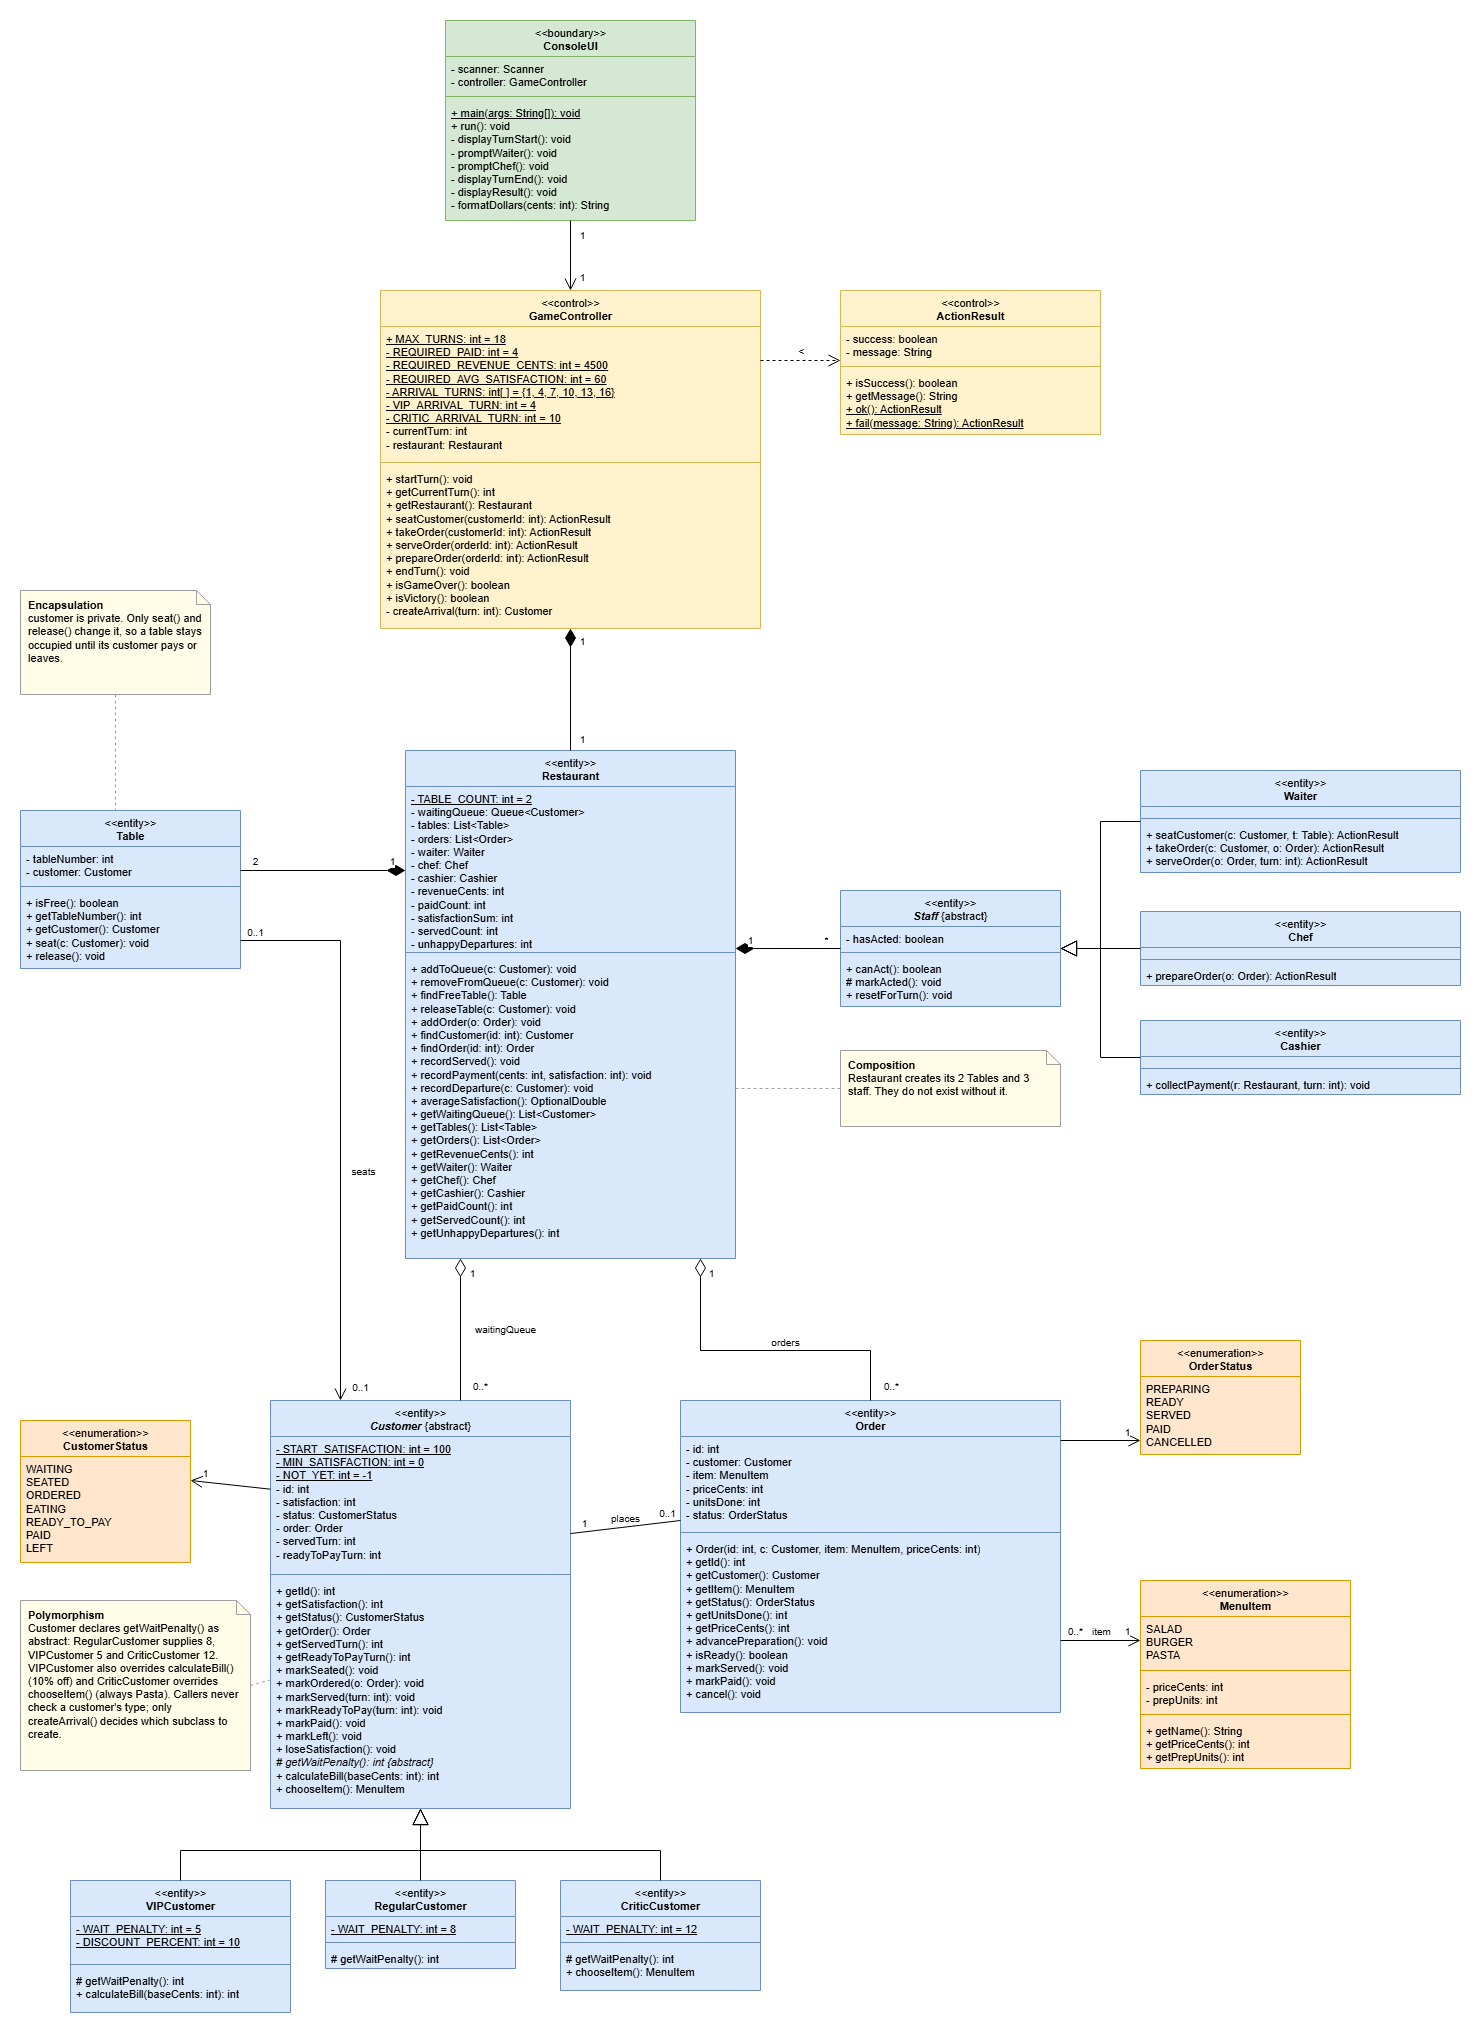
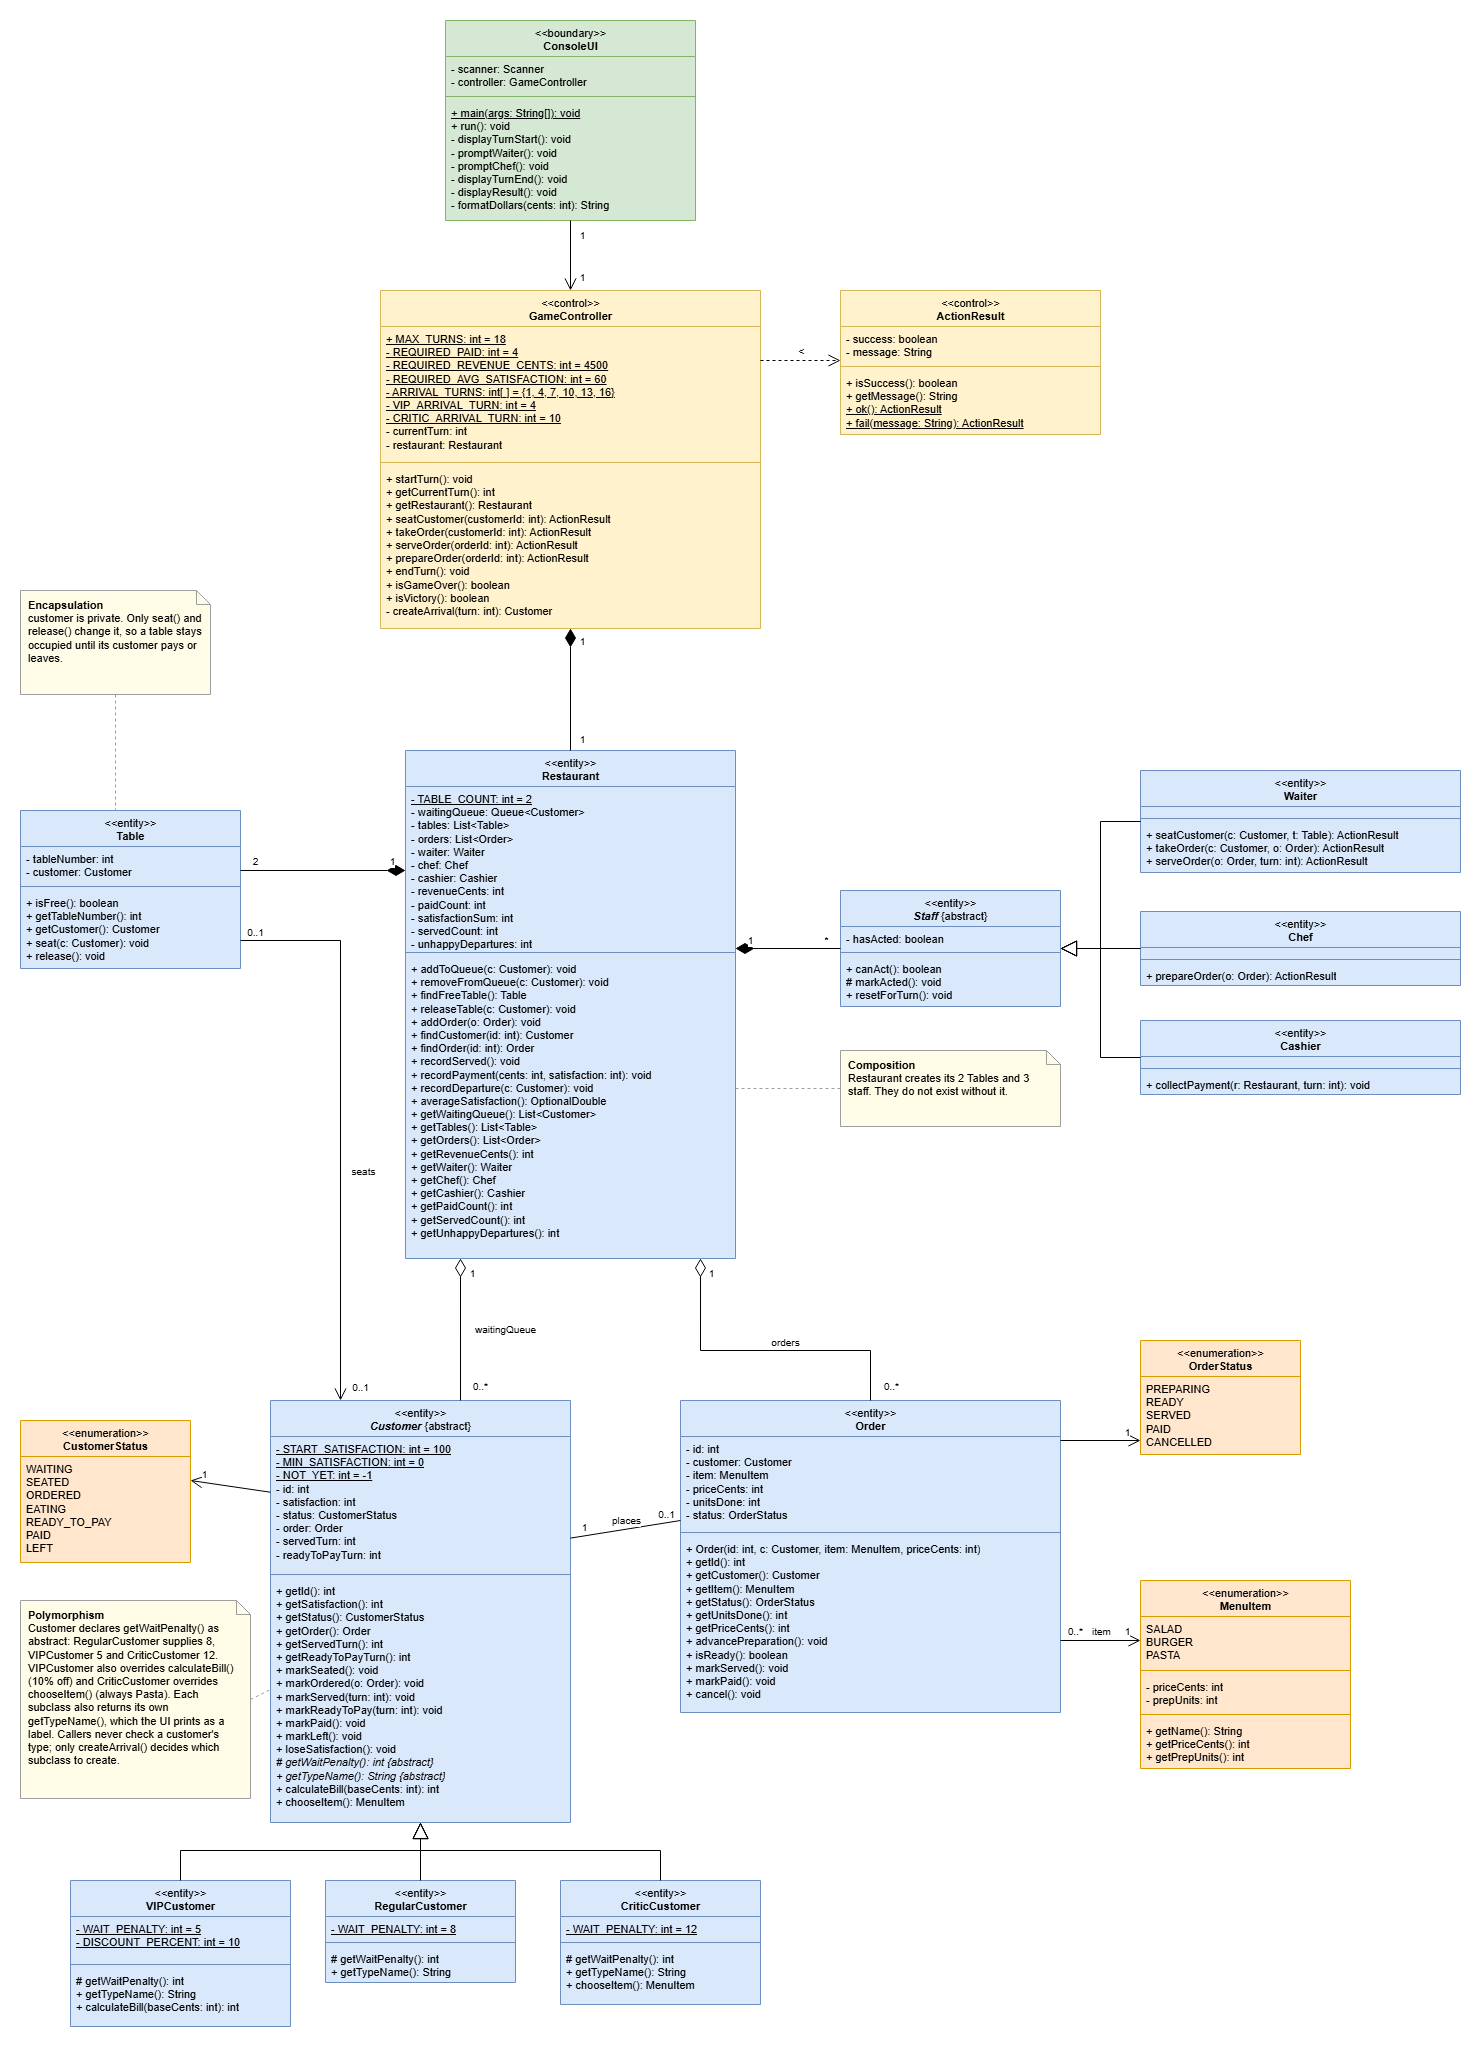
Label each customer with its type in the UI
Customer declares getTypeName() and each subclass returns Regular, VIP or Critic, so ConsoleUI shows the type without checking it.

diff --git a/src/restaurantrush/ConsoleUI.java b/src/restaurantrush/ConsoleUI.java
@@ -42,7 +42,7 @@ public class ConsoleUI {
         List<Customer> queue = restaurant.getWaitingQueue();
         System.out.println("Current queue:");
         for (Customer customer : queue) {
-            System.out.println("Customer: " + customer.getId() + " Satisfaction: " + customer.getSatisfaction());
+            System.out.println("Customer: " + customer.getId() + " (" + customer.getTypeName() + ") Satisfaction: " + customer.getSatisfaction());
         }
 
         List<Table> tables = restaurant.getTables();
@@ -54,7 +54,7 @@ public class ConsoleUI {
             }
             else{
                 Customer customer = table.getCustomer();
-                System.out.println(": " + customer.getId() + " " + customer.getStatus() + " " + customer.getSatisfaction());
+                System.out.println(": " + customer.getId() + " (" + customer.getTypeName() + ") " + customer.getStatus() + " " + customer.getSatisfaction());
             }
         }
 

diff --git a/src/restaurantrush/Customer.java b/src/restaurantrush/Customer.java
@@ -117,6 +117,9 @@ public abstract class Customer {
     /** Satisfaction lost per waiting turn for this type of customer. */
     protected abstract int getWaitPenalty();
 
+    /** Type label shown in the UI, e.g. "VIP". */
+    public abstract String getTypeName();
+
     /** Bill for an item at the given base price. Full price unless overridden. */
     public int calculateBill(int baseCents) {
         return baseCents;

diff --git a/src/restaurantrush/VIPCustomer.java b/src/restaurantrush/VIPCustomer.java
@@ -15,6 +15,11 @@ public class VIPCustomer extends Customer {
     }
 
     @Override
+    public String getTypeName() {
+        return "VIP";
+    }
+
+    @Override
     public int calculateBill(int baseCents) {
         return baseCents * (100 - DISCOUNT_PERCENT) / 100;
     }

diff --git a/src/restaurantrush/CriticCustomer.java b/src/restaurantrush/CriticCustomer.java
@@ -14,6 +14,11 @@ public class CriticCustomer extends Customer {
     }
 
     @Override
+    public String getTypeName() {
+        return "Critic";
+    }
+
+    @Override
     public MenuItem chooseItem() {
         return MenuItem.PASTA;
     }

diff --git a/src/restaurantrush/RegularCustomer.java b/src/restaurantrush/RegularCustomer.java
@@ -12,4 +12,9 @@ public class RegularCustomer extends Customer {
     protected int getWaitPenalty() {
         return WAIT_PENALTY;
     }
+
+    @Override
+    public String getTypeName() {
+        return "Regular";
+    }
 }
